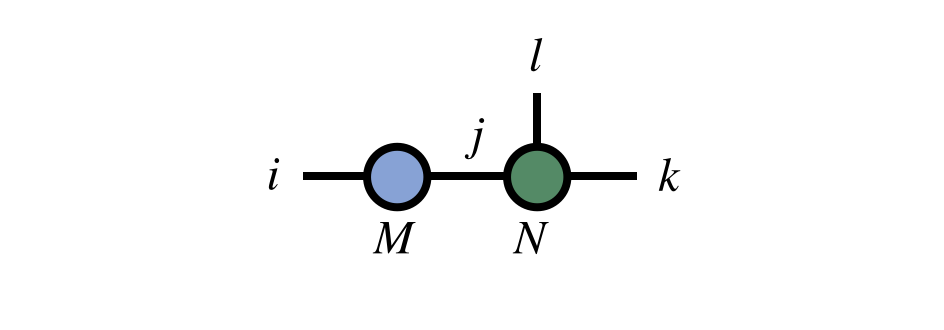
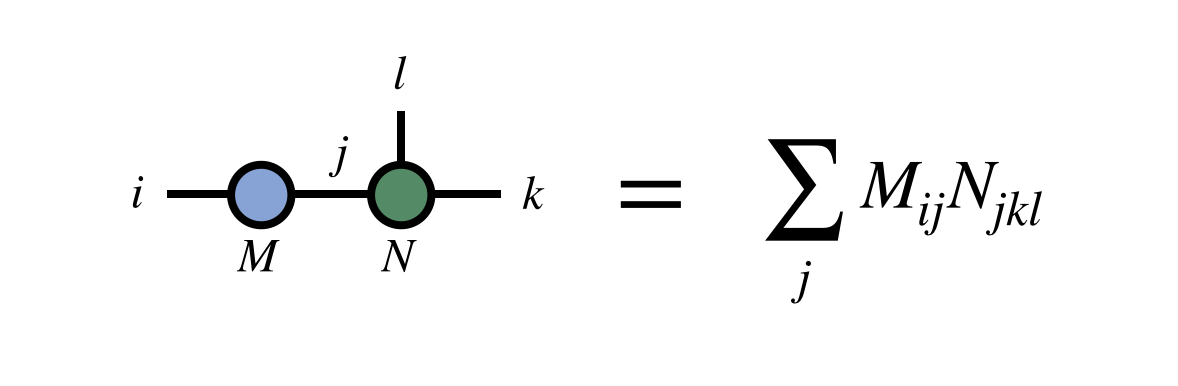
Expanded page on tensor diagrams

diff --git a/src/diagrams.md b/src/diagrams.md
@@ -1,8 +1,54 @@
 # Tensor Diagram Notation
 
-Tensor diagram notation is a simple, yet very powerful
+Tensor diagram notation is a simple, yet powerful
 graphical notation for networks of contracted tensors.
 
-A tensor contraction of the form $M_{ij} N_{jkl}$ can be notated 
+A tensor contraction of the form $\sum_j M_{ij} N_{jkl}$ can be notated 
 
 ![medium](generic_diagram.png)
+
+Despite its graphical and intuitive nature, tensor diagram notation
+is completely rigorous and well defined. It is inspired by
+the Einstein summation convention for notating tensor contractions.
+
+## Tensor Diagram Rules
+
+There are two hard-and-fast rules of tensor diagrams:
+
+1. Tensors are notated by solid shapes, and tensor indices
+   are notated by lines emanating from these shapes.
+
+2. Connecting two index lines implies a contraction, or summation
+   over the connected indices.
+
+Other rules and conventions are sometimes adopted by 
+authors or used in specific contexts. These extensions
+include using specific shapes or 
+shadings to designated properties of tensors;
+orienting index lines according to certain conventions;
+or putting arrows on lines to distinguish
+contravariant and covariant indices.
+
+Though it can be helpful to label indices and tensors
+with letters, it is optional to do so when the same information
+can be inferred from context. In fact, one of the main
+benefits of diagram notation is that it frees one
+from having to name every index in a complicated 
+tensor network.
+
+
+## Examples
+
+Let us look at some example diagrams for familiar low-order tensors:
+
+![medium](tensor_diagrams.png)
+
+And some examples of tensor contractions:
+
+![medium](sample_contractions.png)
+
+In the first example above, the names of the indices are
+notated on the diagram. But the other examples emphasize that this
+is optional. (Technically the second example is ambiguous about
+which index is $i$ and which is $k$, but in practice this ambiguity
+is rarely a problem, or when it is, the labels can be notated.)
